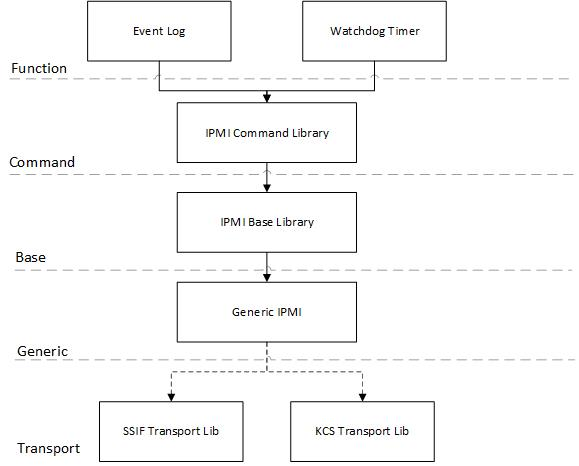
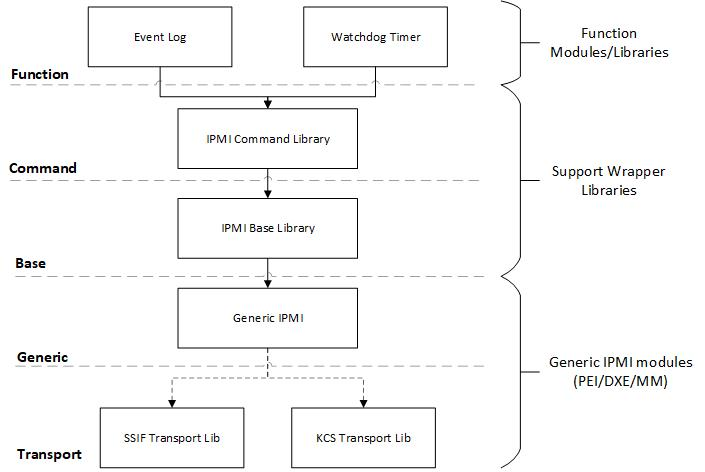
Improvements to documentation and description files. (#26)

diff --git a/IpmiFeaturePkg/Library/MockIpmi/MockIpmi.c b/IpmiFeaturePkg/Library/MockIpmi/MockIpmi.c
@@ -10,10 +10,6 @@
 
 #include "MockIpmi.h"
 
-BOOLEAN             gResponseValid;
-IPMI_RESPONSE_DATA  gResponse;
-UINT8               gResponseSize;
-
 //
 // Registered handlers.
 //
@@ -34,6 +30,14 @@ MOCK_IPMI_HANDLER_ENTRY  MockHandlers[] =
   { IPMI_NETFN_CHASSIS, IPMI_CHASSIS_SET_SYSTEM_BOOT_OPTIONS, MockIpmiSetSystemBootOptions },
   { IPMI_NETFN_CHASSIS, IPMI_CHASSIS_GET_SYSTEM_BOOT_OPTIONS, MockIpmiGetSystemBootOptions },
 };
+
+//
+// Internal globals used to track responses across calls.
+//
+
+STATIC BOOLEAN             mResponseValid;
+STATIC IPMI_RESPONSE_DATA  mResponse;
+STATIC UINT8               mResponseSize;
 
 //
 // Generic routines for handling top level IPMI commands and responses.
@@ -65,29 +69,30 @@ MockIpmiCommand (
   // response.
   //
 
-  gResponse.Header.NetFunction = Command->NetFunction | 0x1;
-  gResponse.Header.Command     = Command->Command;
-  gResponse.ResponseData[0]    = IPMI_COMP_CODE_INVALID_COMMAND;
-  gResponseSize                = sizeof (IPMI_RESPONSE);
+  mResponse.Header.NetFunction = Command->NetFunction | 0x1;
+  mResponse.Header.Command     = Command->Command;
+  mResponse.ResponseData[0]    = IPMI_COMP_CODE_INVALID_COMMAND;
+  mResponseSize                = sizeof (IPMI_RESPONSE);
 
   //
   // Search for a specific handler.
   //
 
-  for (Index = 0; Index < (sizeof (MockHandlers) / sizeof (MockHandlers[0])); Index++) {
+  for (Index = 0; Index < ARRAY_SIZE (MockHandlers); Index++) {
     if ((MockHandlers[Index].NetFunction == Command->NetFunction) &&
         (MockHandlers[Index].Command == Command->Command))
     {
-      ResponseDataSize = sizeof (gResponse.ResponseData);
+      ResponseDataSize = sizeof (mResponse.ResponseData);
       MockHandlers[Index].Handler (
                             (VOID *)(Command + 1),
                             (Size - sizeof (IPMI_COMMAND)),
-                            &gResponse.ResponseData[0],
+                            &mResponse.ResponseData[0],
                             &ResponseDataSize
                             );
 
-      gResponseSize  = sizeof (IPMI_RESPONSE) + ResponseDataSize;
-      gResponseValid = TRUE;
+      ASSERT (ResponseDataSize > 0);
+      mResponseSize  = sizeof (IPMI_RESPONSE) + ResponseDataSize;
+      mResponseValid = TRUE;
       return EFI_SUCCESS;
     }
   }
@@ -96,9 +101,9 @@ MockIpmiCommand (
   // No handler was found, responded that this is not supported.
   //
 
-  gResponse.ResponseData[0] = IPMI_COMP_CODE_INVALID_COMMAND;
-  gResponseSize             = sizeof (IPMI_RESPONSE) + sizeof (gResponse.ResponseData[0]);
-  gResponseValid            = TRUE;
+  mResponse.ResponseData[0] = IPMI_COMP_CODE_INVALID_COMMAND;
+  mResponseSize             = sizeof (IPMI_RESPONSE) + sizeof (mResponse.ResponseData[0]);
+  mResponseValid            = TRUE;
   return EFI_SUCCESS;
 }
 
@@ -116,16 +121,16 @@ MockIpmiResponse (
   IN OUT UINT8       *Size
   )
 {
-  ASSERT (gResponseValid);
-  ASSERT (gResponseSize != 0);
-  ASSERT (gResponseSize <= sizeof (IPMI_RESPONSE_DATA));
-  ASSERT (*Size > gResponseSize);
+  ASSERT (mResponseValid);
+  ASSERT (mResponseSize != 0);
+  ASSERT (mResponseSize <= sizeof (IPMI_RESPONSE_DATA));
+  ASSERT (*Size > mResponseSize);
 
-  CopyMem (Response, &gResponse, gResponseSize);
-  *Size = gResponseSize;
+  CopyMem (Response, &mResponse, mResponseSize);
+  *Size = mResponseSize;
 
-  ZeroMem (&gResponse, sizeof (gResponse));
-  gResponseValid = FALSE;
+  ZeroMem (&mResponse, sizeof (mResponse));
+  mResponseValid = FALSE;
 
   return EFI_SUCCESS;
 }

diff --git a/IpmiFeaturePkg/Test/UnitTest/BootOptionUnitTest/BootOptionUnitTest.c b/IpmiFeaturePkg/Test/UnitTest/BootOptionUnitTest/BootOptionUnitTest.c
@@ -66,7 +66,7 @@ TestGetBootOptionNone (
   EFI_STATUS                 Status;
 
   Selector = INVALID_SELECTOR;
-  Status   = IpmiGetBootOption (&Selector);
+  Status   = IpmiGetBootDevice (&Selector);
   UT_ASSERT_STATUS_EQUAL (Status, EFI_SUCCESS);
   UT_ASSERT_EQUAL (Selector, BootNone);
   UT_ASSERT_EQUAL (mBootOptionAcks, BIOS_ACKED_VALUE);
@@ -96,7 +96,7 @@ TestGetBootOptionInvalid (
   mBootFlags.Data1.Bits.BootFlagValid      = 0;
   mBootFlags.Data2.Bits.BootDeviceSelector = BootCd;
   Selector                                 = INVALID_SELECTOR;
-  Status                                   = IpmiGetBootOption (&Selector);
+  Status                                   = IpmiGetBootDevice (&Selector);
   UT_ASSERT_STATUS_EQUAL (Status, EFI_SUCCESS);
   UT_ASSERT_EQUAL (Selector, BootNone);
   UT_ASSERT_EQUAL (mBootOptionAcks, BIOS_ACKED_VALUE);
@@ -126,7 +126,7 @@ TestGetBootOptionNoPersistance (
   mBootFlags.Data1.Bits.BootFlagValid      = 1;
   mBootFlags.Data2.Bits.BootDeviceSelector = BootCd;
   Selector                                 = INVALID_SELECTOR;
-  Status                                   = IpmiGetBootOption (&Selector);
+  Status                                   = IpmiGetBootDevice (&Selector);
   UT_ASSERT_STATUS_EQUAL (Status, EFI_SUCCESS);
   UT_ASSERT_EQUAL (Selector, BootCd);
 
@@ -134,7 +134,7 @@ TestGetBootOptionNoPersistance (
   // Check that the value was cleared.
   //
 
-  Status = IpmiGetBootOption (&Selector);
+  Status = IpmiGetBootDevice (&Selector);
   UT_ASSERT_STATUS_EQUAL (Status, EFI_SUCCESS);
   UT_ASSERT_EQUAL (Selector, BootNone);
   UT_ASSERT_EQUAL (mBootOptionAcks, BIOS_ACKED_VALUE);
@@ -172,7 +172,7 @@ TestGetBootOptionPersistance (
 
   for (Index = 0; Index < 5; Index++) {
     Selector = INVALID_SELECTOR;
-    Status   = IpmiGetBootOption (&Selector);
+    Status   = IpmiGetBootDevice (&Selector);
     UT_ASSERT_STATUS_EQUAL (Status, EFI_SUCCESS);
     UT_ASSERT_EQUAL (Selector, BootCd);
   }

diff --git a/IpmiFeaturePkg/Include/Library/IpmiBootOptionLib.h b/IpmiFeaturePkg/Include/Library/IpmiBootOptionLib.h
@@ -47,7 +47,7 @@ typedef enum _IPMI_BOOT_OPTION_SELECTOR {
 **/
 EFI_STATUS
 EFIAPI
-IpmiGetBootOption (
+IpmiGetBootDevice (
   OUT IPMI_BOOT_OPTION_SELECTOR  *Selector
   );
 

diff --git a/IpmiFeaturePkg/Library/IpmiBootOptionLib/IpmiBootOptionLib.c b/IpmiFeaturePkg/Library/IpmiBootOptionLib/IpmiBootOptionLib.c
@@ -141,7 +141,7 @@ IpmiAcknowledgeBootOption (
 **/
 EFI_STATUS
 EFIAPI
-IpmiGetBootOption (
+IpmiGetBootDevice (
   OUT IPMI_BOOT_OPTION_SELECTOR  *Selector
   )
 {

diff --git a/IpmiFeaturePkg/Docs/Ipmi_Feature.md b/IpmiFeaturePkg/Docs/Ipmi_Feature.md
@@ -4,6 +4,11 @@ This package implements core-functionality for IPMI as well as several services
 built on IPMI. See [IPMI Specification 2nd Generation v2.0](https://www.intel.com/content/dam/www/public/us/en/documents/product-briefs/ipmi-second-gen-interface-spec-v2-rev1-1.pdf)
 for more information. This document details the design on the IPMI feature. For
 using and configuring this feature package, see [the package readme](../Readme.md).
+For specific functionality within this package see the other documents.
+
+- [IPMI Watchdog](./Ipmi_Watchdog.md)
+- [IPMI Boot Options](./Ipmi_Boot_Options.md)
+- [IPMI System Event Log](./Ipmi_System_Event_Log.md)
 
 ## Purpose
 
@@ -32,9 +37,9 @@ __Generic IPMI__ - Implements the generic IPMI in a protocol, PPI, or MM driver.
 This layer is responsible for taking a high level IPMI request and building the
 IPMI request and parsing the response. Generic IPMI will rely on the transport
 library to handle the hardware specifics. External consumers of the IPMI package
-should avoid directly calling into the IPMI generic interface and should instead
-use the base library mentioned below. The generic interface is defined in the
-[IPMI interface header file](../Include/IpmiInterface.h).
+should consider using the base library. The generic transport interface is defined
+in the [IPMI interface header file](../Include/IpmiInterface.h) but should be considered
+internal.
 
 __IPMI Base Library__ - Supplies a library abstraction for the basic
 functionality provided by the Generic IPMI component. This is the API surface
@@ -57,8 +62,8 @@ Platforms may implement custom or specialized IPMI commands and functionality
 that are not implemented in this repo. In this case, the platform should leverage
 the [IPMI base library](../Include/Library/IpmiBaseLib.h) to abstract the interface
 into a single command which they can provide an opaque command and response buffer.
-Platforms should avoid directly calling into the protocol/PPI as this is considered
-internal and may be subject to change.
+Platforms may call directly into the protocols/PPIs if needed, but for consistency
+it is advised to use the base library.
 
 ## Testing the IPMI feature
 

diff --git a/IpmiFeaturePkg/Docs/Ipmi_System_Event_Log.md b/IpmiFeaturePkg/Docs/Ipmi_System_Event_Log.md
@@ -1,0 +1,6 @@
+# IPMI System Event Log (SEL)
+
+The IPMI System Even Log (SEL) is a persistent logging interface detailed in section
+31 of the IPMI specification. This package provides the [IPMI SEL Library](../Include/Library/IpmiSelLib.h)
+to allow for easy use of the SEL interface. It is advised that this library be
+used for creating or reading SEL events.
